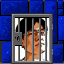
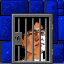
Added sprite ability

diff --git a/wolf3d.rb b/wolf3d.rb
@@ -4,13 +4,13 @@ require 'gosu'
 
 require 'map'
 require 'player'
+require 'sprite'
 
 module ZOrder
   BACKGROUND = 0
-  LEVEL   = 1
-  OBJECTS = 2
-  ENEMIES = 3
-  HUD     = 10
+  LEVEL      = 1
+  SPRITES    = 2
+  HUD        = 10
 end
 
 class GameWindow < Gosu::Window
@@ -18,12 +18,12 @@ class GameWindow < Gosu::Window
   WINDOW_WIDTH  = 640
   WINDOW_HEIGHT = 480
   FULLSCREEN    = true
+  FPS           = 60
   
   def initialize
-    super(WINDOW_WIDTH, WINDOW_HEIGHT, FULLSCREEN)
-    self.caption = 'Rubenstein 3d by Phusion CS Company'
-    @font = Gosu::Font.new(self, Gosu::default_font_name, 20)
-    
+    super(WINDOW_WIDTH, WINDOW_HEIGHT, FULLSCREEN, 1.0 / FPS)
+    self.caption = 'Rubystein 3d by Phusion CS Company'
+        
     @map = Map.new([
         # Top left element represents (x=0,y=0)
         [1, 1, 1, 1, 1, 1, 1, 1],
@@ -42,6 +42,7 @@ class GameWindow < Gosu::Window
           { :north => 'blue2_1.png', :east => 'blue1_2.png', :south => 'blue1_1.png', :west => 'blue1_2.png' },
           { :north => 'blue3_1.png', :east => 'blue3_2.png', :south => 'blue3_1.png', :west => 'blue3_2.png' }
         ],
+        [ Sprite.new(self, 'lamp.bmp', 300, 96), Sprite.new(self, 'hans1.bmp', 160, 160) ],
         self
     )
     
@@ -50,6 +51,9 @@ class GameWindow < Gosu::Window
     @player.x = 96
     @player.y = 96
     @player.angle = 0
+    
+    @wall_distances = [0] * WINDOW_WIDTH
+    @wall_perp_distances = [0] * WINDOW_WIDTH
     
     @floor_ceil = Gosu::Image::new(self, 'floor_ceil.png', true)
   end
@@ -71,19 +75,62 @@ class GameWindow < Gosu::Window
     end
   end
 
-  def draw
+  def draw_sprites
+    @map.sprites.each { |sprite|
+      dx = (sprite.x - @player.x)
+      dy = (sprite.y - @player.y) * -1 # Correct the angle by mirroring it in x. This is necessary seeing as our grid system increases in y when we "go down"
+      
+      distance = Math.sqrt( dx ** 2 + dy ** 2 )
+      
+      sprite_angle =(Math::atan2(dy, dx) * 180 / Math::PI) - @player.angle
+      sprite_angle *= -1 # Correct the angle by mirroring it in x. This is necessary seeing as our grid system increases in y when we "go down"
+      
+      perp_distance = ( distance * Math.cos( sprite_angle * Math::PI / 180 ))#.abs
+      next if perp_distance <= 0 # Behind us... no point in drawing this.
+
+      sprite_pixel_factor = ( Player::DISTANCE_TO_PROJECTION / perp_distance )
+      
+      sprite_size = sprite_pixel_factor * Sprite::TEX_WIDTH
+      
+      x = ( Math.tan(sprite_angle * Math::PI / 180) * Player::DISTANCE_TO_PROJECTION + (WINDOW_WIDTH - sprite_size)/ 2).to_i
+      next if x + sprite_size.to_i < 0 or x >= WINDOW_WIDTH # Out of our screen resolution
+
+      y = (WINDOW_HEIGHT - sprite_size) / 2
+      
+      i = 0
+      while(i < Sprite::TEX_WIDTH && (i * sprite_pixel_factor) < sprite_size)
+        slice = x + i * sprite_pixel_factor
+        if slice >= 0 && slice < WINDOW_WIDTH && perp_distance < @wall_perp_distances[slice.to_i]
+          sprite.slices[i].draw(slice, y, ZOrder::SPRITES, sprite_pixel_factor, sprite_pixel_factor, 0xffffffff)
+        end
+        
+        i += 1
+      end
+      
+      #sprite.slices.each{ |slice|
+      #  slice.draw(x, y, ZOrder::SPRITES, sprite_pixel_factor, sprite_pixel_factor) if not @wall_perp_distances[x.to_i].nil? and perp_distance < @wall_perp_distances[x.to_i]
+      #  x += sprite_pixel_factor
+      #}
+    }
+  end
+
+  def draw_scene
     @floor_ceil.draw(0, 0, ZOrder::BACKGROUND)
     
     # Raytracing logics
     ray_angle         = (360 + @player.angle + (Player::FOV / 2)) % 360
     ray_angle_delta   = Player::RAY_ANGLE_DELTA
     
-    for slice in 0...WINDOW_WIDTH
+    (0...WINDOW_WIDTH).each { |slice|
       type, distance, map_x, map_y = @map.find_nearest_intersection(@player.x, @player.y, ray_angle)
       
       # Correct spherical distortion
+      # corrected_distance here is the perpendicular distance between the player and wall.
       corrected_angle = ray_angle - @player.angle
       corrected_distance = distance * Math::cos(corrected_angle * Math::PI / 180)
+      
+      @wall_distances[slice]      = distance
+      @wall_perp_distances[slice] = corrected_distance
       
       slice_height = ((Map::TEX_HEIGHT / corrected_distance) * Player::DISTANCE_TO_PROJECTION)
       slice_y = (WINDOW_HEIGHT - slice_height) * (1 - @player.height)
@@ -92,7 +139,12 @@ class GameWindow < Gosu::Window
       texture.draw(slice, slice_y, ZOrder::LEVEL, 1, slice_height / Map::TEX_HEIGHT)
       
       ray_angle = (360 + ray_angle - ray_angle_delta) % 360
-    end
+    }
+  end
+
+  def draw
+    draw_scene
+    draw_sprites
   end
   
 end

diff --git a/map.rb b/map.rb
@@ -7,10 +7,11 @@ class Map
   attr_accessor :matrix
   attr_reader   :window
   attr_reader   :textures
+  attr_reader   :sprites
   
   # @require for i in 0...matrix_row_column.size:
   #   matrix_row_column[i].size == matrix_row_column[i+1].size
-  def initialize(matrix_row_column, texture_files, window)
+  def initialize(matrix_row_column, texture_files, sprites, window)
     @matrix = matrix_row_column
     @window = window
     @textures = [nil]
@@ -18,11 +19,13 @@ class Map
       pair = {}
       
       tex_file.each_pair {|tex_type, tex_path|
-        pair[tex_type] = Gosu::Image::load_tiles(window, tex_path, 1, TEX_HEIGHT, true)
+        pair[tex_type] = Gosu::Image::load_tiles(window, tex_path, 1, TEX_HEIGHT, false)
       }
       
       @textures << pair
     }
+    
+    @sprites = sprites
   end
   
   def find_nearest_intersection(start_x, start_y, angle)

diff --git a/sprite.rb b/sprite.rb
@@ -1,0 +1,14 @@
+class Sprite
+  TEX_WIDTH  = 64
+  TEX_HEIGHT = 64
+  
+  attr_accessor :x
+  attr_accessor :y
+  attr_reader :slices
+
+  def initialize(window, tex_path, x = 0, y = 0)
+    @x = x
+    @y = y
+    @slices = Gosu::Image::load_tiles(window, tex_path, 1, TEX_HEIGHT, true)
+  end
+end
